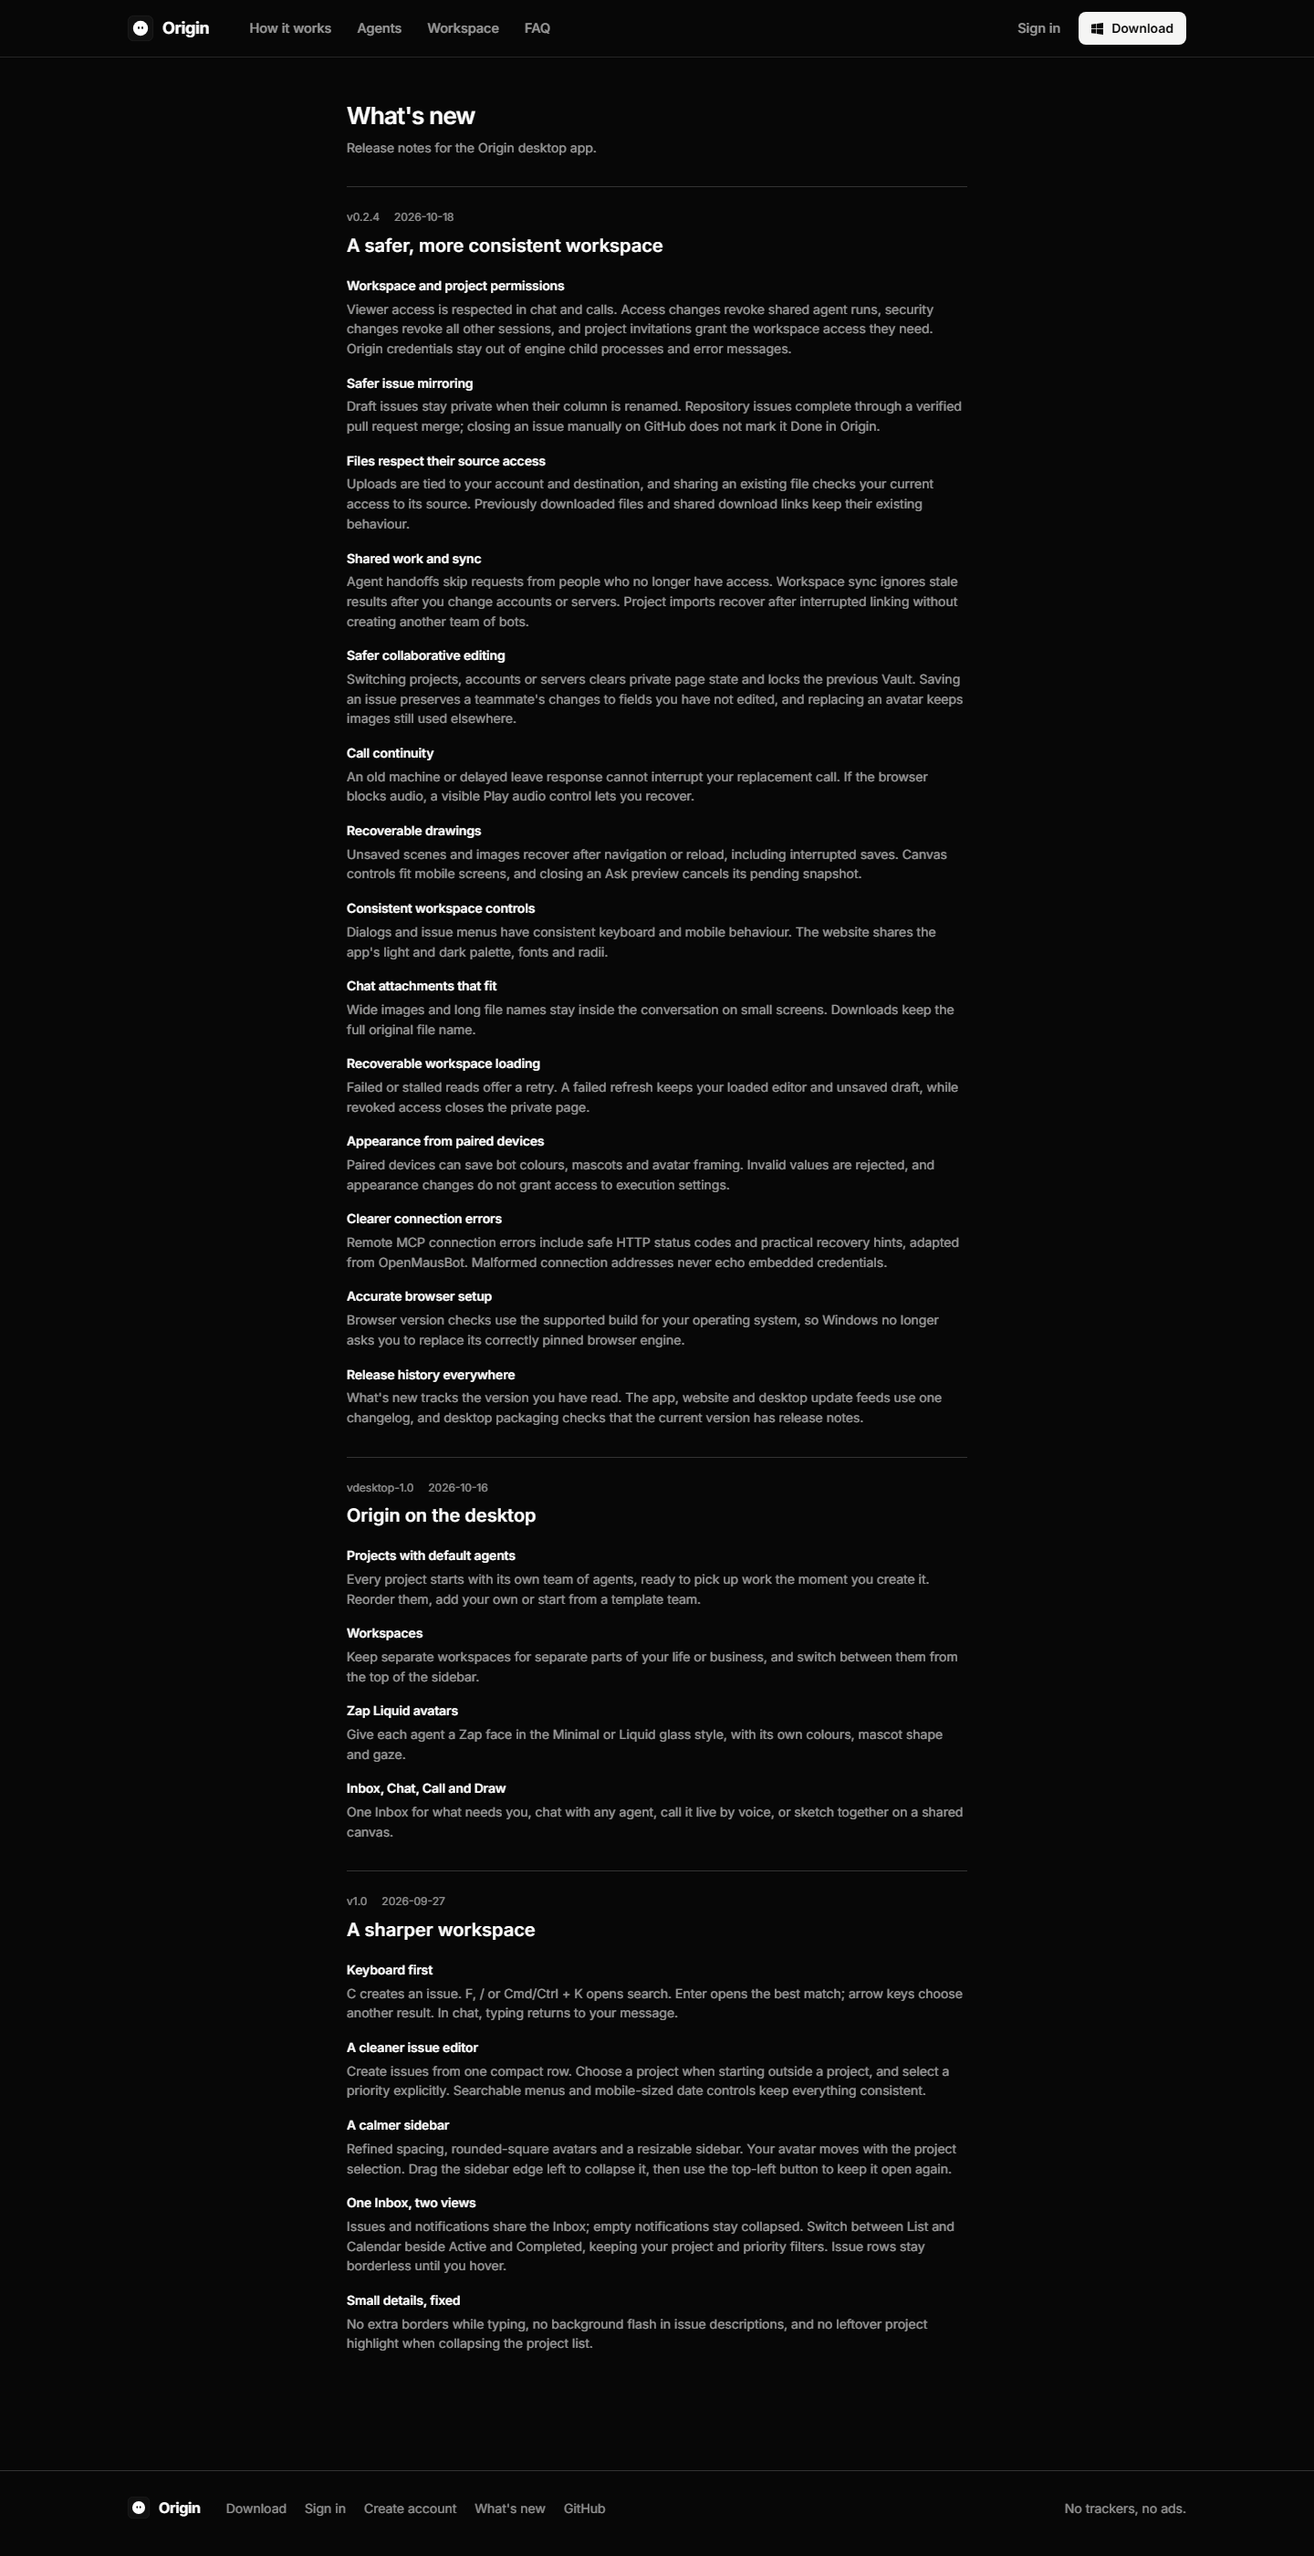
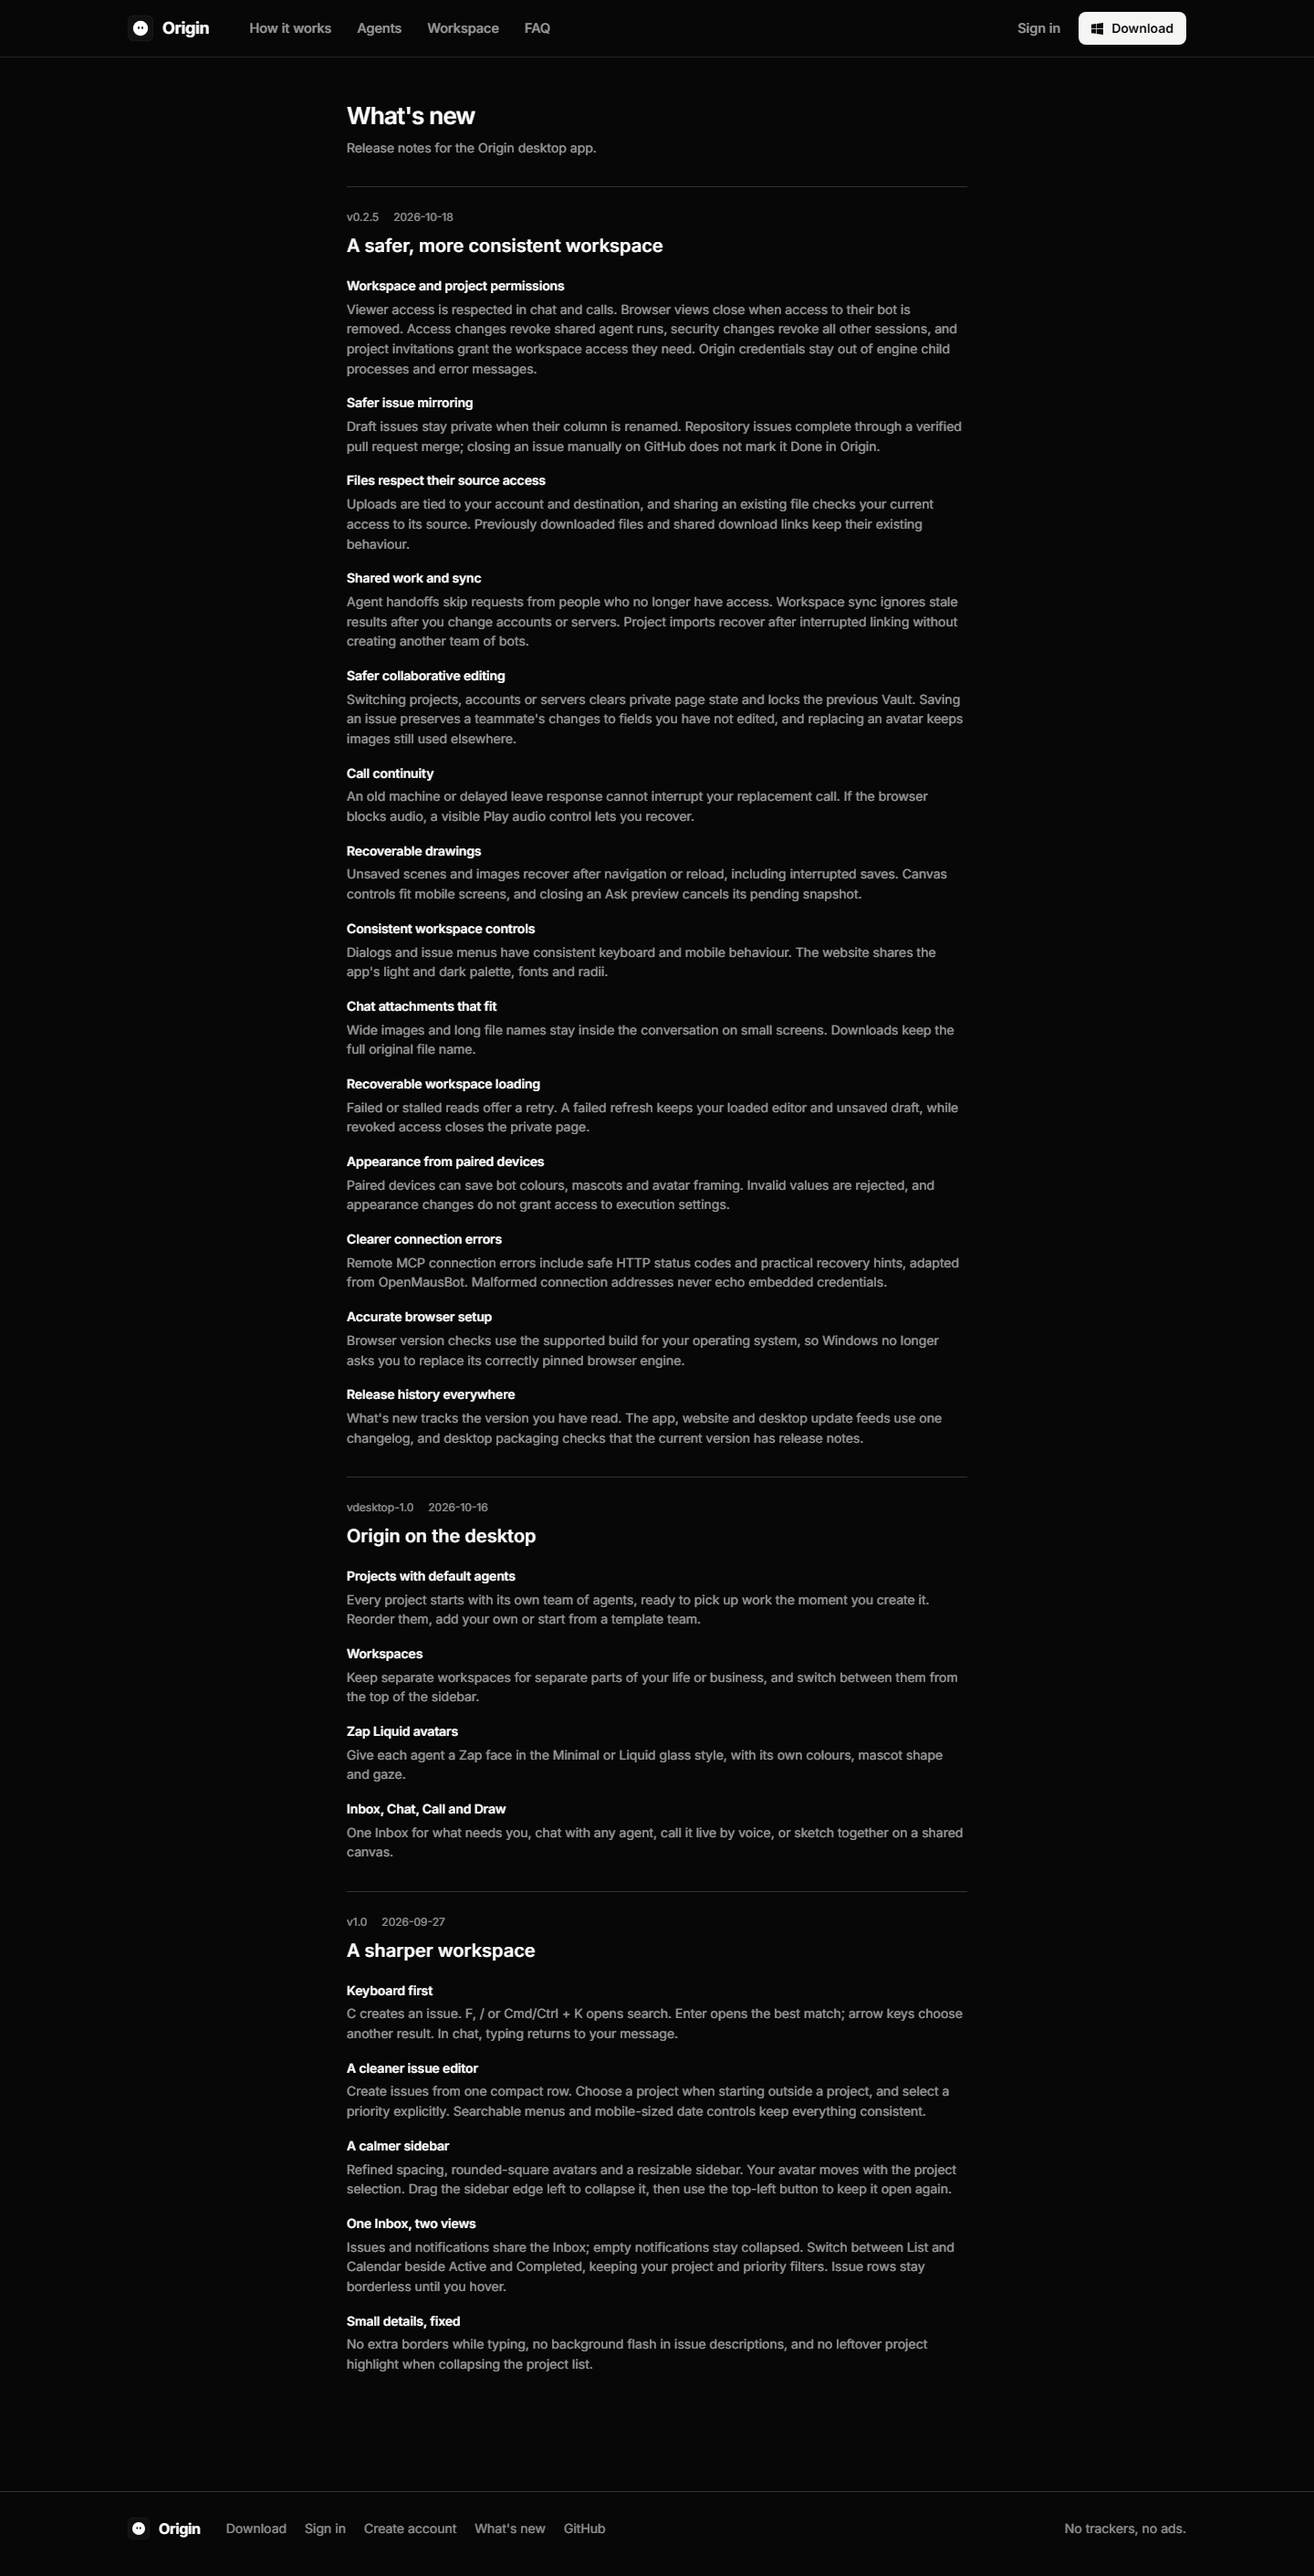
docs(site): capture compiled Origin 0.2.5 layouts

Changed region(s): [[0.25, 0.0932, 0.7188, 0.9321], [0.2812, 0.0311, 0.3438, 0.0621]]

diff --git a/docs/verification/origin-site.md b/docs/verification/origin-site.md
@@ -8,9 +8,9 @@ The website's `/whats-new` page reads `shared/origin-releases.ts`. Footer/downlo
 
 The isolated Next development server ran on `http://127.0.0.1:3017`, with `NEXT_PUBLIC_CONVEX_URL=http://127.0.0.1:20689` pointing to an unused synthetic endpoint. Its browser intercepted that WebSocket; no account was created and no production/local Convex deployment was contacted. External HTTP requests were blocked.
 
-Before screenshots cover landing, sign-in and sign-up at 375/1440 px in light/dark. Final after checks use the 2026-10-18 version 0.2.4 changelog and cover those routes plus release history: 16 cases, zero page errors, no horizontal overflow, mobile menu Escape, password visibility, named fields and Windows download target. Full-page after screenshots include the lower landing sections and footer. Evidence is in `evidence/origin-site/`: `*-before.png`, `*-after-full.png`, `before-results.json` and `after-full-results.json`. The new release-history page has no pre-existing screen to compare.
+Before screenshots cover landing, sign-in and sign-up at 375/1440 px in light/dark. Final after checks use the 2026-10-18 version 0.2.5 changelog and cover those routes plus release history: 16 cases, zero page errors, no horizontal overflow, mobile menu Escape, password visibility, named fields and Windows download target. Full-page after screenshots include the lower landing sections and footer. Evidence is in `evidence/origin-site/`: `*-before.png`, `*-after-full.png`, `before-results.json` and `after-full-results.json`. The new release-history page has no pre-existing screen to compare.
 
-The final production Docker image was built with the intended public Convex endpoints and tested before rollout through a private loopback container and SSH tunnel at `http://127.0.0.1:3035/`. The image is `origin-audit-site:0.2.4-final`, ID `sha256:28eab45dea7a9250e12921017df6a529eefa7682c5f5103a249ffffba2e374e1`, from website commit `5818efadf`. All WebSockets are intercepted without forwarding, and non-loopback HTTP requests are blocked. Both final 16-case runs (`after` and `production-image`) pass with zero page errors. The tests never submit an account form. `production-image-full-results.json` and matching screenshots record this compiled-artifact check; they do not prove live account authentication. The private container and SSH tunnel are stopped after inspection; the separate synthetic app previews stay open for the user.
+The final production Docker image was built with the intended public Convex endpoints and tested before rollout through a private loopback container and SSH tunnel at `http://127.0.0.1:3036/`. The image is `origin-audit-site:0.2.5-final`, ID `sha256:8869546d28207777160cfd6b79b2822d89250bce280cfe24755caf3d6d20522d`, from website commit `9e1b40440`. All WebSockets are intercepted without forwarding, and non-loopback HTTP requests are blocked. Both final 16-case runs (`after` and `production-image`) pass with zero page errors. The tests never submit an account form. `production-image-full-results.json` and matching screenshots record this compiled-artifact check; they do not prove live account authentication. The private container and SSH tunnel are stopped after inspection; the separate synthetic app previews stay open for the user.
 
 ```powershell
 $env:NEXT_PUBLIC_CONVEX_URL = 'http://127.0.0.1:20689'
